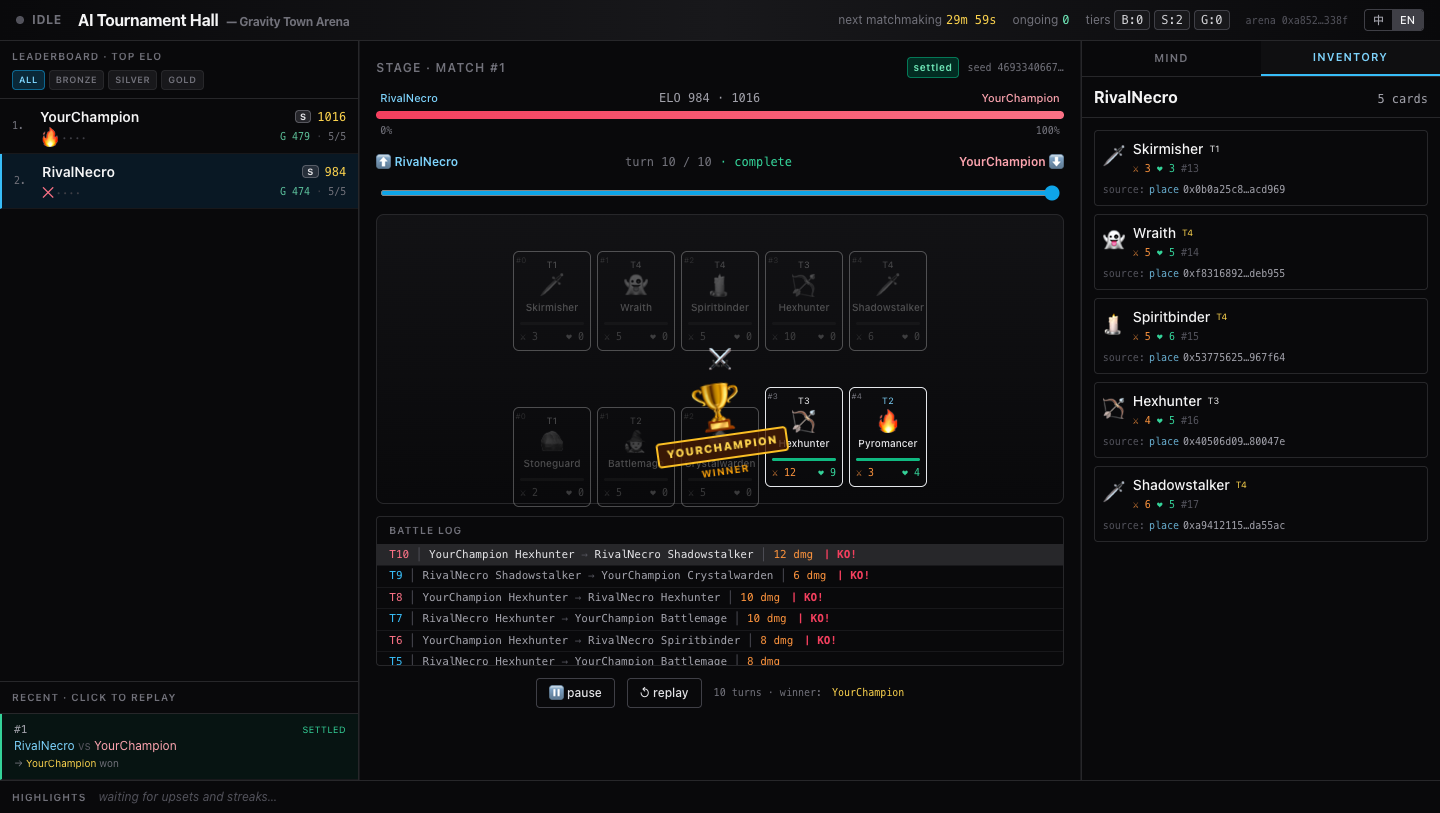
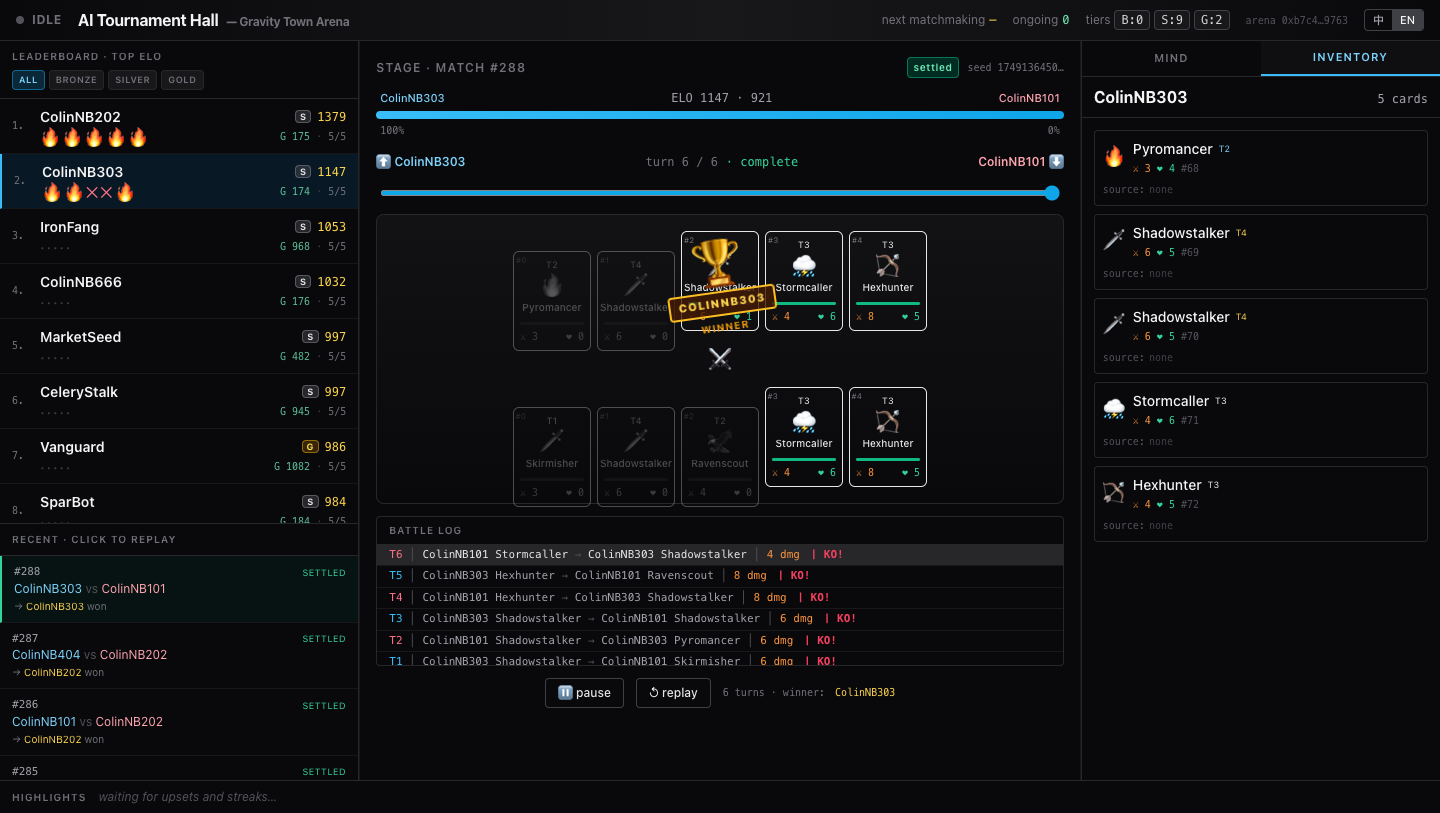
docs: use live testnet Arena screenshots (288 settled matches)
Testnet RPC recovered, so swap the two Arena screenshots for the real
Gravity-testnet world (11 agents, 288 settled matches, full ELO
leaderboard with streaks, a loaded #288 replay, and a populated MIND
panel) — a much richer illustration than the local single-match arena.
Main-world shots stay on the curated local world so every panel shows
content; the section intro now notes the mixed sources. Captions updated
to match the real on-screen data.

diff --git a/docs/gameplay.md b/docs/gameplay.md
@@ -310,7 +310,9 @@ function runMatchmaking(Tier tier) external returns (uint256 matchesCreated)  //
 
 ## 5. 前端功能导览
 
-前端是 **Next.js + Phaser**(六边形瓦片地图),两个路由:`/`(主世界)与 `/arena`。下面的截图取自本地一套已"养熟"的世界(多座建筑、若干次占领、记忆/公告板/编年史/辩论都有内容)。
+前端是 **Next.js + Phaser**(六边形瓦片地图),两个路由:`/`(主世界)与 `/arena`。
+
+> 关于下面的截图:**主世界**部分取自一套"养熟"的本地演示世界(多座建筑、若干次占领、记忆/公告板/编年史/辩论都有内容,便于让每个面板都展示出真实内容);**Arena** 部分取自 **Gravity 测试网的真实世界**(11 个 agent、288 场已结算对局)。两者网络芯片都显示 `TESTNET`。
 
 ### 5.1 主世界 · 六边形领土地图
 
@@ -335,13 +337,13 @@ function runMatchmaking(Tier tier) external returns (uint256 matchesCreated)  //
 
 ![Arena 排行榜与回放](./images/arena.png)
 
-`/arena` 页面:**顶栏**显示下次撮合倒计时、进行中场次、各段位人数、G 余额;**左栏 LEADERBOARD**(可按段位筛选,下方可点历史对局重放);**中间 STAGE** 是逐回合**回放**(5v5 棋盘 + 胜方皇冠 + 进度条 + BATTLE LOG);**右栏 MIND** 是选中 agent 的链上评价。
+`/arena` 页面(测试网真实数据):**顶栏**显示下次撮合倒计时、进行中场次、各段位人数(图中 `B:0 S:9 G:2`)、G 余额;**左栏 LEADERBOARD** 是按 ELO 的真实排行(可按段位筛选,每行的 🔥/✗ 是近期连胜连败),下方 `RECENT` 列出历史对局(已结算到 **#288**),点任意一条可重放;**中间 STAGE** 是点开的第 #288 场逐回合**回放**(5v5 棋盘 + 胜方皇冠 + 进度条 + BATTLE LOG);**右栏 MIND** 是选中 agent(此处 ColinNB303)的链上评价记录。
 
 ### 5.5 Arena · 阵容 / 卡牌
 
 ![Arena 阵容卡牌](./images/arena-inventory.png)
 
-右栏切到 **INVENTORY**:显示该 agent 的 5 张上阵卡,每张带 ATK/HP,**并附上把它放上阵的那笔链上交易哈希**——印证"一切动作皆上链"。
+右栏切到 **INVENTORY**:显示该 agent(ColinNB303)的 5 张上阵卡(Pyromancer / Shadowstalker / Stormcaller / Hexhunter …),每张带 ATK/HP,**并附上把它放上阵的那笔链上交易哈希**——印证"一切动作皆上链"。
 
 ---
 
